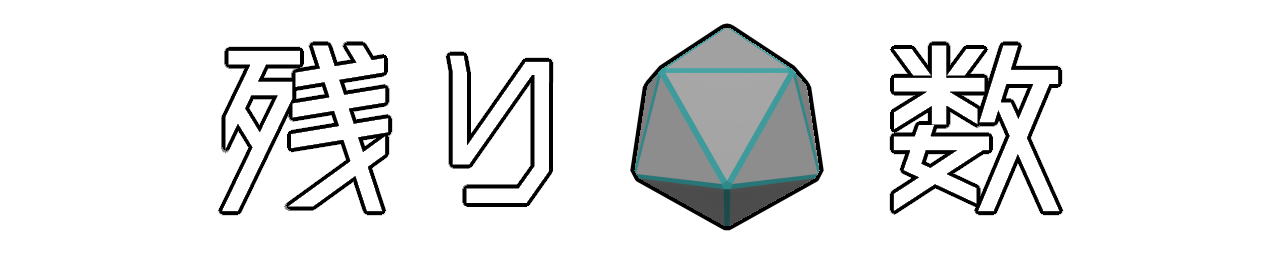
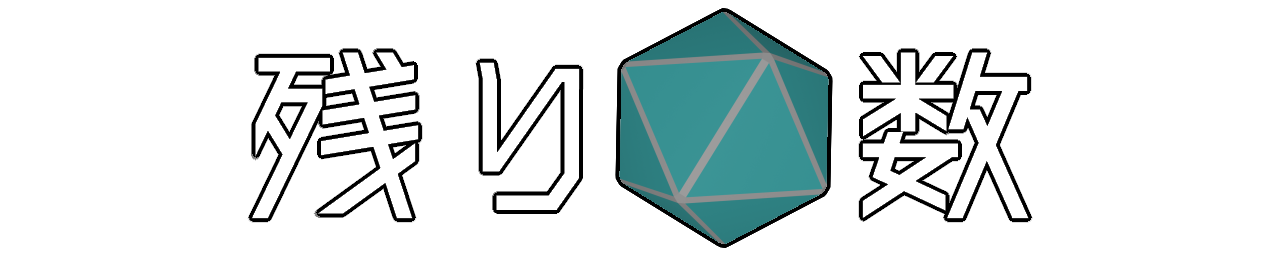
アイテムのテクスチャ変更

Changed region(s): [[0.1562, 0.0312, 0.8438, 0.9688]]

diff --git a/Engine/GameObject/Item/Item.cpp b/Engine/GameObject/Item/Item.cpp
@@ -147,8 +147,8 @@ void Item::SetItemInfo(const BaseStage::ItemInfo& info)
 	kPopTime_ = info.popTime_;
 	isActive_ = true;
 	isUsed_ = false;
-	if (!isRePop_) {
-		objects_[0]->SetTextureHandle(TextureManager::Load("./Item/InstanceItemTex.png"));;
+	if (isRePop_) {
+		objects_[0]->SetTextureHandle(TextureManager::Load("./Item/InstanceItemTex.png"));
 	}
 }
 
@@ -200,10 +200,10 @@ void Item::DebugGui() {
 	}
 
 	if (isRePop_) {
-		objects_[0]->SetTextureHandle(TextureManager::Load("./Item/ItemTex.png"));;
+		objects_[0]->SetTextureHandle(TextureManager::Load("./Item/InstanceItemTex.png"));;
 	}
 	else {
-		objects_[0]->SetTextureHandle(TextureManager::Load("./Item/InstanceItemTex.png"));;
+		objects_[0]->SetTextureHandle(TextureManager::Load("./Item/ItemTex.png"));;
 	}
 	ImGui::End();
 

diff --git a/Engine/GameObject/GameManager/GameManagerObject.cpp b/Engine/GameObject/GameManager/GameManagerObject.cpp
@@ -430,10 +430,10 @@ void GameManagerObject::CameraStaging()
 
 void GameManagerObject::ClearGageAnimation()
 {
-	/*if (stageManager_->GetGearCondition() <= stageManager_->GetClearCondition())
+	if (stageManager_->GetGearCondition() <= stageManager_->GetClearCondition())
 		stageClearPercent_ = Math::Linear(stageManager_->GetGearCondition(), 0, 100, stageManager_->GetClearCondition());
 	else
-		stageClearPercent_ = 100;*/
+		stageClearPercent_ = 100;
 
 	// ゲージを動かす
 	objects_[3]->uvTransform_.rotate_.x = Math::EaseIn((float)stageClearPercent_, -1.05f, -0.3f, 100);
